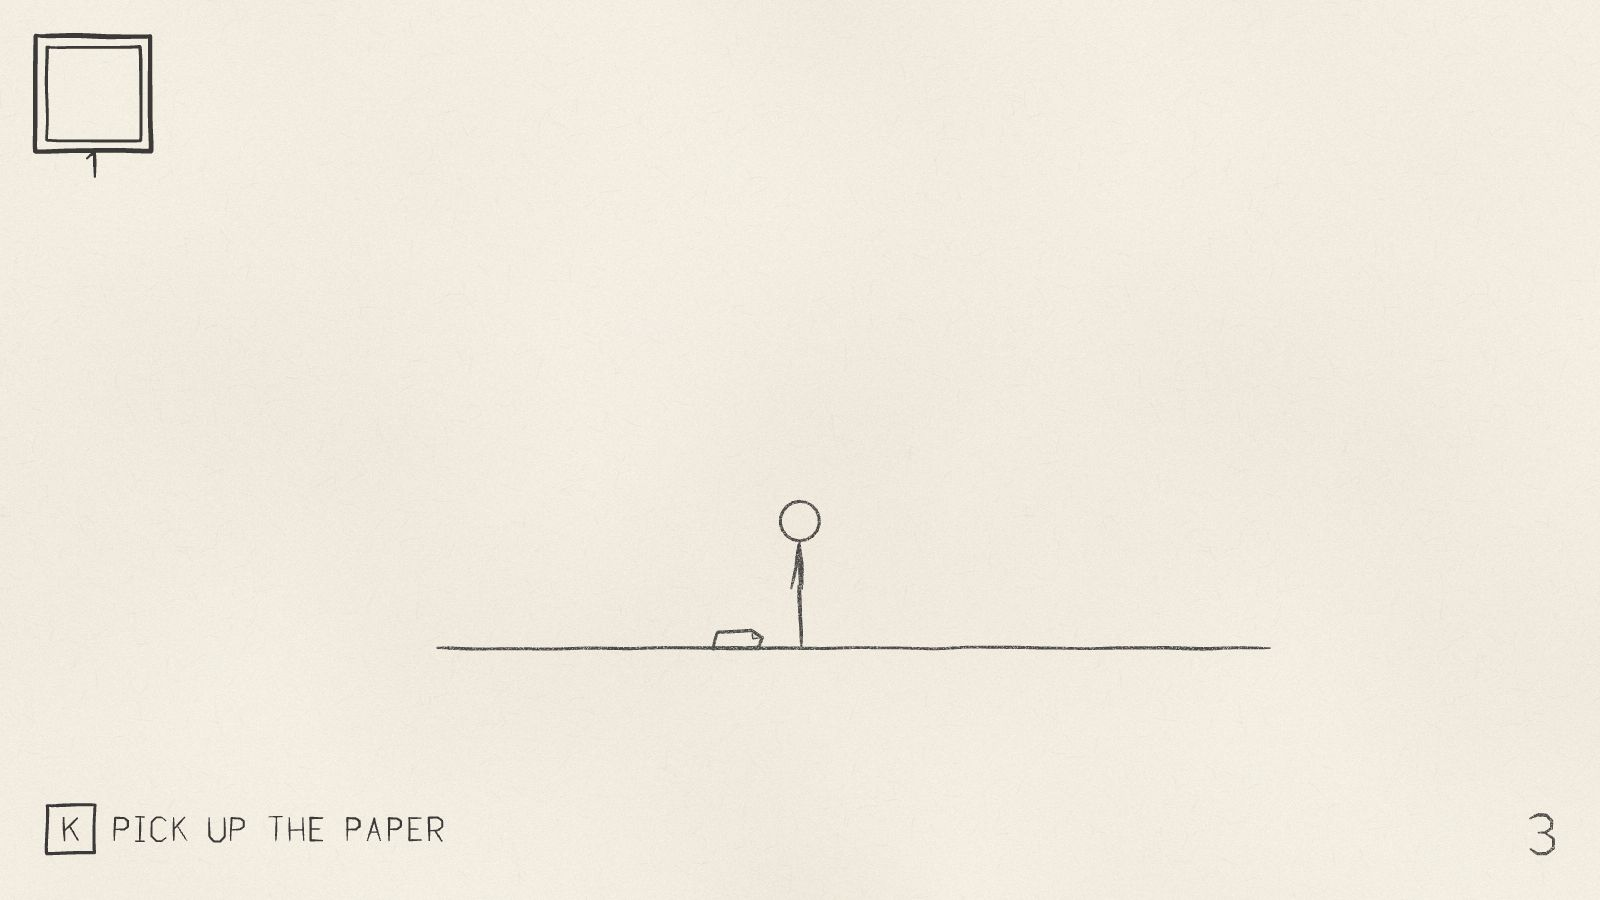
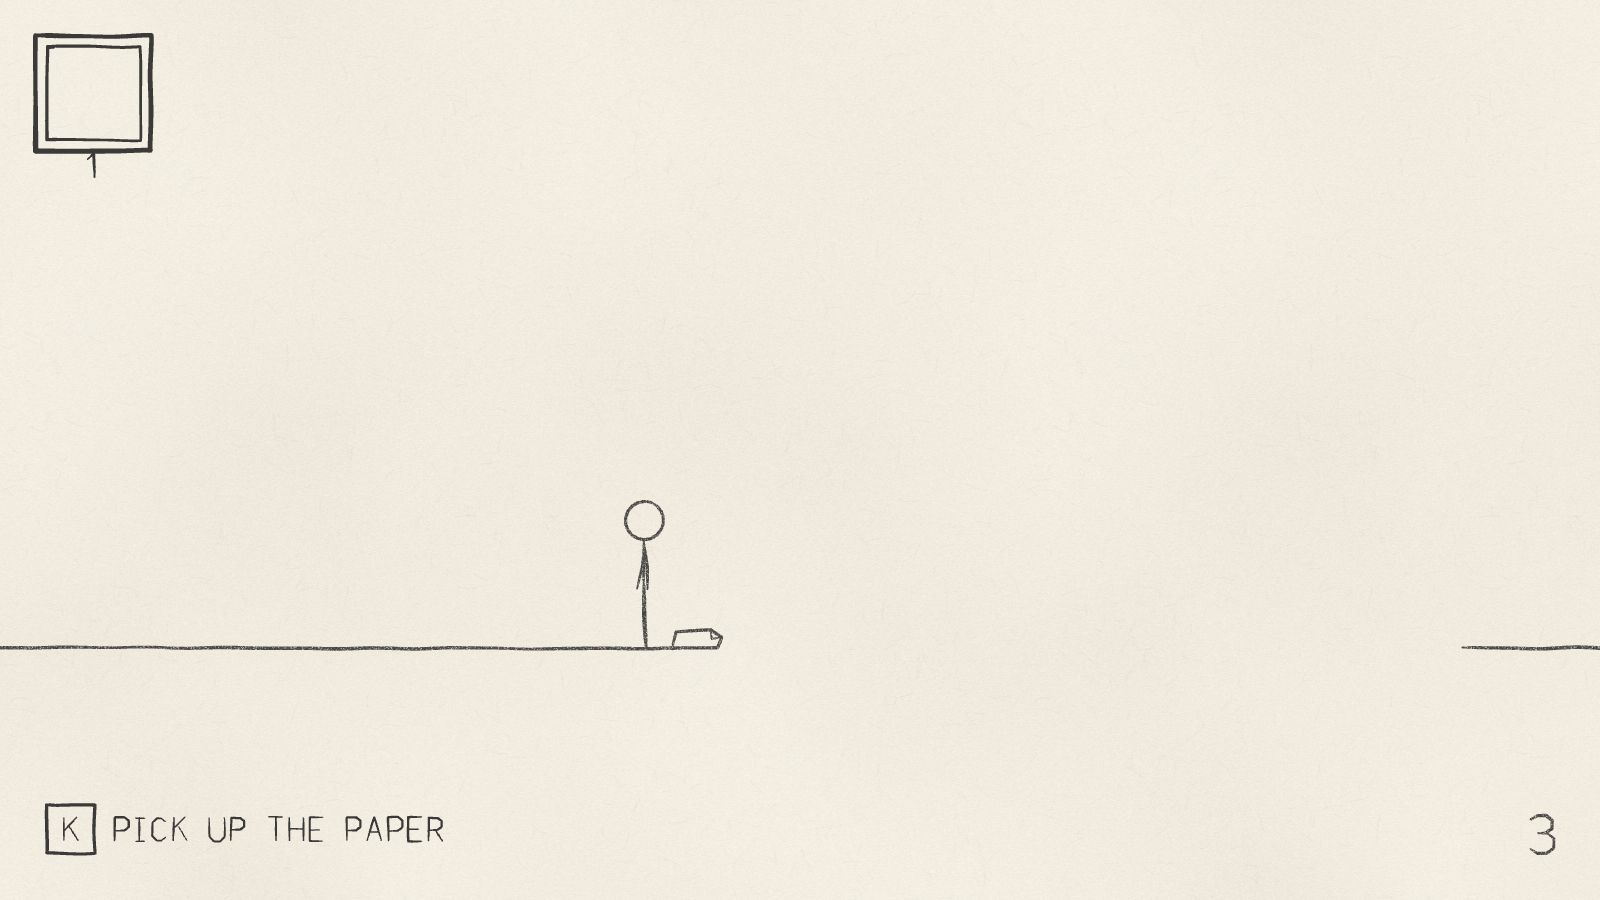
The sheet of paper falls where he stands, not where the letter lay
He sees it come down and has it at his feet. In the air it waits for him to
land, so it never comes down over a gap.

diff --git a/packages/sim/src/features/letter/letter.test.ts b/packages/sim/src/features/letter/letter.test.ts
@@ -149,7 +149,7 @@ describe('a level that starts again', () => {
 });
 
 describe('a new sheet of paper', () => {
-  it('falls from the sky to where the letter lay however the airplane is lost by him who lives, and is picked up into his hand', () => {
+  it('falls from the sky to where he stands however the airplane is lost by him who lives, and is picked up into his hand', () => {
     for (const [, lose] of WAYS_TO_LOSE_THE_AIRPLANE_AND_LIVE) {
       const sim = holdingTheAirplane();
       lose(sim);
@@ -161,10 +161,13 @@ describe('a new sheet of paper', () => {
       // Nothing at first, then a sheet high above the place, coming down, and at last lying there. It is the paper, and no letter.
       for (let tick = 0; tick < TICK_RATE && !fallenItemOf(sim); tick += 1) sim.step();
       const heights: number[] = [];
+      // He lost it at the edge, far from where the letter lay: the sheet comes to him.
+      const stoodAt = stickManOf(sim).feet;
+      expect(stoodAt.x).toBeGreaterThan(LETTER_AT.x + 3);
       for (let tick = 0; tick < 20 * TICK_RATE && (heights.length === 0 || fallenItemOf(sim)!.height !== 0); tick += 1) {
         const fallen = fallenItemOf(sim)!;
         heights.push(fallen.height);
-        expect(fallen).toMatchObject({ at: LETTER_AT, itemDefId: PAPER_ITEM_ID });
+        expect(fallen).toMatchObject({ at: stoodAt, itemDefId: PAPER_ITEM_ID });
         expect(letterOf(sim)).toBeUndefined();
         sim.step();
       }
@@ -172,8 +175,7 @@ describe('a new sheet of paper', () => {
       expect(heights).toEqual([...heights].sort((one, other) => other - one));
       expect(fallenItemOf(sim)!.height).toBe(0);
 
-      // One press picks it up: nothing is read, and it is in his hand, where the next press folds it.
-      walkTo(sim, LETTER_AT.x);
+      // It lies at his feet. One press picks it up: nothing is read, and it is in his hand, where the next press folds it.
       expect(interactionOf(sim)).toBe('pickUp');
       sim.step([INTERACT]);
       expect(fallenItemOf(sim)).toBeUndefined();
@@ -225,17 +227,52 @@ describe('a new sheet of paper', () => {
     expect(hasAirplane(atTheFlag)).toBe(false);
   });
 
-  it('cannot be picked up while it is still coming down', () => {
+  it('cannot be picked up while it is still coming down, nor from out of reach once it lies there', () => {
     const sim = holdingTheAirplane();
     WAYS_TO_LOSE_THE_AIRPLANE_AND_LIVE[0]![1](sim);
     for (let tick = 0; tick < 20 * TICK_RATE && !fallenItemOf(sim); tick += 1) sim.step();
-    walkTo(sim, LETTER_AT.x);
     for (let tick = 0; tick < 20 * TICK_RATE && fallenItemOf(sim)!.height > 0; tick += 1) {
       expect(interactionOf(sim)).toBeNull();
       sim.step([INTERACT]);
       expect(itemSlotsOf(sim)[0]?.itemDefId).toBeNull();
     }
     expect(interactionOf(sim)).toBe('pickUp');
+    // It stays where it fell when he walks away from it, and is out of reach from there.
+    const fellAt = fallenItemOf(sim)!.at;
+    walkTo(sim, fellAt.x - LETTER.reach - 0.3);
+    expect(fallenItemOf(sim)).toMatchObject({ at: fellAt, height: 0 });
+    expect(interactionOf(sim)).toBeNull();
+    walkTo(sim, fellAt.x - LETTER.reach + 0.2);
+    expect(interactionOf(sim)).toBe('pickUp');
+  });
+
+  it('waits for him to land: one he lost in the air gets its sheet where he comes down, never over a gap', () => {
+    const sim = holdingTheAirplane();
+    for (const command of [USE_ITEM, INTERACT]) sim.step([command]);
+    walkTo(sim, EDGE - 1);
+    sim.step([{ type: 'player/jump' }]);
+    for (let tick = 0; tick < 3; tick += 1) sim.step();
+    // In the air he puts nothing down: he lands, and then sets it down past the edge to lose it.
+    for (let tick = 0; tick < TICK_RATE; tick += 1) sim.step();
+    walkTo(sim, EDGE - 0.2);
+    sim.step([INTERACT]);
+    sim.step([{ type: 'player/jump' }]);
+    let sawItStartWhileHeWasInTheAir = false;
+    let ticksInTheAirWhileItWasDue = 0;
+    for (let tick = 0; tick < 20 * TICK_RATE && !(fallenItemOf(sim)?.height === 0); tick += 1) {
+      const wasThere = fallenItemOf(sim) !== undefined;
+      sim.step(tick % 30 === 0 ? [{ type: 'player/jump' }] : []);
+      const inTheAir = stickManOf(sim).action === 'jumping';
+      // The tick it appears on, he is on the floor.
+      if (!wasThere && fallenItemOf(sim) && inTheAir) sawItStartWhileHeWasInTheAir = true;
+      if (!fallenItemOf(sim) && inTheAir && tick > LETTER.fallsAfter * TICK_RATE + 2) ticksInTheAirWhileItWasDue += 1;
+    }
+    // It was due while he was in a jump, and did wait.
+    expect(ticksInTheAirWhileItWasDue).toBeGreaterThan(0);
+    expect(sawItStartWhileHeWasInTheAir).toBe(false);
+    const fellAt = fallenItemOf(sim)!.at;
+    expect(fellAt.y).toBe(0);
+    expect(level3.floor.some((segment) => segment.from.x <= fellAt.x && fellAt.x <= segment.to.x)).toBe(true);
   });
 
   it('does not fall while the airplane is anywhere: in his slot, on the floor or over his head', () => {

diff --git a/packages/sim/src/features/letter/index.ts b/packages/sim/src/features/letter/index.ts
@@ -19,8 +19,8 @@ import { fallenItemSlice, letterSlice, lettersReadSlice } from './state';
  * that starts again for him who has read its letter and has nothing left of
  * what it was for gives him what its recipe makes at once. And whenever he
  * loses everything it was for without dying, the item itself falls from the
- * sky to where the letter lay, and interacting next to it picks it up. So he
- * can never be left without a way on.
+ * sky to where he stands, and interacting next to it picks it up. So he can
+ * never be left without a way on.
  */
 export const letterFeature: Feature = {
   name: 'letter',
@@ -43,7 +43,7 @@ export const letterFeature: Feature = {
     const placed = letterPlacedIn(sim.levelDef);
     const def = placed && letterDef(placed.defId);
     if (!placed || !def) return;
-    if (sim.stateOf(letterSlice).beingRead && !isWithinReach(sim, placed)) putAway(sim);
+    if (sim.stateOf(letterSlice).beingRead && !isWithinReach(sim, placed.at)) putAway(sim);
     const fallen = sim.stateOf(fallenItemSlice);
     if (fallen.inLevel) {
       fallen.height = Math.max(0, fallen.height - LETTER.fallSpeed * sim.dt);
@@ -56,9 +56,13 @@ export const letterFeature: Feature = {
       fallen.ticksUntilItFalls = Math.round(LETTER.fallsAfter / sim.dt);
     } else if (fallen.ticksUntilItFalls > 0) {
       fallen.ticksUntilItFalls -= 1;
-    } else {
+    } else if (sim.stateOf(playerSlice).onFloor) {
+      // It comes down where he stands, so he sees it and has it at his feet. In the air he has no place for it yet: it waits for him to land.
+      const { x, y } = sim.stateOf(playerSlice);
       fallen.ticksUntilItFalls = null;
       fallen.inLevel = true;
+      fallen.x = x;
+      fallen.y = y;
       fallen.height = LETTER.fallsFromHeight;
     }
   },
@@ -85,7 +89,7 @@ export function letterInteraction(sim: Sim) {
   const placed = letterPlacedIn(sim.levelDef);
   const def = placed && letterDef(placed.defId);
   const letter = sim.stateOf(letterSlice);
-  if (!placed || !def || !letter.inLevel || letter.beingRead || !isWithinReach(sim, placed)) return undefined;
+  if (!placed || !def || !letter.inLevel || letter.beingRead || !isWithinReach(sim, placed.at)) return undefined;
   return {
     means: 'read' as const,
     perform: () => {
@@ -105,7 +109,7 @@ export function fallenItemInteraction(sim: Sim) {
   const placed = letterPlacedIn(sim.levelDef);
   const def = placed && letterDef(placed.defId);
   const fallen = sim.stateOf(fallenItemSlice);
-  if (!placed || !def || !fallen.inLevel || fallen.height > 0 || !isWithinReach(sim, placed)) return undefined;
+  if (!def || !fallen.inLevel || fallen.height > 0 || !isWithinReach(sim, fallen)) return undefined;
   return {
     means: 'pickUp' as const,
     perform: () => {
@@ -126,10 +130,10 @@ function putAway(sim: Sim): void {
   letter.inLevel = false;
 }
 
-/** True while he stands on the floor within reach of where the letter lies, and where the item falls. */
-function isWithinReach(sim: Sim, placed: Placement): boolean {
+/** True while he stands on the floor within reach of something that lies at `at`: the letter, or the item that fell. */
+function isWithinReach(sim: Sim, at: { readonly x: number }): boolean {
   const player = sim.stateOf(playerSlice);
-  return player.onFloor && Math.abs(player.x - placed.at.x) <= LETTER.reach;
+  return player.onFloor && Math.abs(player.x - at.x) <= LETTER.reach;
 }
 
 /**

diff --git a/packages/sim/src/features/letter/state.ts b/packages/sim/src/features/letter/state.ts
@@ -15,12 +15,15 @@ export const lettersReadSlice = defineSlice<number[]>('lettersRead', () => [], {
 
 /** The item a letter gave, given again from the sky to him who has lost it and everything he made of it. */
 export interface FallenItemState {
-  /** True while it is there: on its way down, or lying where the letter lay. */
+  /** True while it is there: on its way down, or lying on the floor. */
   inLevel: boolean;
+  /** Where it lies, or will lie once it has come down, in metres: where he stood when it started to fall. Only read while it is there. */
+  x: number;
+  y: number;
   /** How far above where it will lie it is, in metres. 0 once it lies on the floor. */
   height: number;
   /** Ticks left before one starts to fall, or null when none is on its way. */
   ticksUntilItFalls: number | null;
 }
 
-export const fallenItemSlice = defineSlice<FallenItemState>('fallenItem', () => ({ inLevel: false, height: 0, ticksUntilItFalls: null }));
+export const fallenItemSlice = defineSlice<FallenItemState>('fallenItem', () => ({ inLevel: false, x: 0, y: 0, height: 0, ticksUntilItFalls: null }));

diff --git a/packages/sim/src/features/letter/view.ts b/packages/sim/src/features/letter/view.ts
@@ -36,12 +36,12 @@ export interface FallenItemView {
   readonly itemDefId: number;
 }
 
-/** The item on its way down or lying where the level's letter lay, or undefined when there is none. */
+/** The item on its way down or lying on the floor, or undefined when there is none. */
 export function fallenItemOf(handle: SimHandle): FallenItemView | undefined {
   if (!(handle instanceof Sim)) throw new TypeError('not a sim made by createSim or restoreSim');
   const placed = letterPlacedIn(handle.levelDef);
   const def = placed && letterDef(placed.defId);
   const fallen = handle.stateOf(fallenItemSlice);
   if (!placed || !def || !fallen.inLevel) return undefined;
-  return { at: placed.at, height: fallen.height, itemDefId: def.gives };
+  return { at: { x: fallen.x, y: fallen.y }, height: fallen.height, itemDefId: def.gives };
 }

diff --git a/packages/sim/src/features/letter/defs.ts b/packages/sim/src/features/letter/defs.ts
@@ -12,7 +12,7 @@ export interface LetterDef extends Def {
   readonly text: string;
   /** The def id of the recipe that reading it teaches. */
   readonly teachesRecipe: number;
-  /** The def id of the item that reading it gives him when he has neither that item nor what the recipe makes of it. It is also what falls from the sky for him who has read it and lost both; a level that starts again for him gives what the recipe makes instead. */
+  /** The def id of the item that reading it gives him when he has neither that item nor what the recipe makes of it. It is also what falls from the sky, where he stands, for him who has read it and lost both; a level that starts again for him gives what the recipe makes instead. */
   readonly gives: number;
 }
 

diff --git a/AGENTS.md b/AGENTS.md
@@ -148,7 +148,7 @@ Example: an `airplane` feature where the stick man places a paper airplane and f
 - Other features read and change what he holds through `features/inventory/held.ts` and `give.ts`, never through the inventory's slice. The airplane is an item of the inventory's block (201) while it is in a slot, and the `airplane` feature's while it is in the world; that feature sets `carrying` in the player's state, which is how the player's jump and the stick man's arms know.
 - A flag he has reached goes up its stick while he cheers under it, and the next level starts `LEVEL_END.pauseBeforeNextLevel` after he reached it (`features/flag/defs.ts`). The sim starts it in one tick; the page that is turned between the two is the view's (below).
 - The flag of the last level ends the game: no level follows it, `flagOf(sim).endsTheGame` and `gameOf(sim).over` say so, and once it is up the HUD writes the end across the sheet, a stroke at a time and never wider than the view (`client/src/hud/theEnd.ts`). `GAME_END.playAgainAfter` (`features/game/defs.ts`) after he reached it playing again is offered (`gameOf(sim).playingAgainOffered`): he stops cheering and walks and jumps again, the ends of the floor line he is on stop him so that nothing takes the end back, and `'game/playAgain'` (Enter, `client/src/input/gameKeys.ts`) starts the first level with nothing kept (the `game` feature, `sim.startOver()`). J and K have no use after any flag.
-- Trying again costs no chores, and he can never be left without a way on (the `letter` feature). A letter he has read and put away is gone: what it taught he knows for good, and what he can lose is only the paper and what he made of it. An airplane left in the world is lost when he dies, like everything else that is not in a slot, but a level that starts again for him who has read its letter and has nothing left of what it was for gives him what its recipe makes at once, in his hand: a retry of level 3 is walk, set down, board. And whenever he loses the paper and the airplane without dying, a new sheet of paper falls from the sky to where the letter lay (`fallenItemOf(sim)`), and K next to it picks it up (`'pickUp'`), into his hand.
+- Trying again costs no chores, and he can never be left without a way on (the `letter` feature). A letter he has read and put away is gone: what it taught he knows for good, and what he can lose is only the paper and what he made of it. An airplane left in the world is lost when he dies, like everything else that is not in a slot, but a level that starts again for him who has read its letter and has nothing left of what it was for gives him what its recipe makes at once, in his hand: a retry of level 3 is walk, set down, board. And whenever he loses the paper and the airplane without dying, a new sheet of paper falls from the sky to where he stands (`fallenItemOf(sim)`; in the air, it waits for him to land), and K next to it picks it up (`'pickUp'`), into his hand.
 - The stick man is a controlled body with limbs drawn from code, not a ragdoll. The sim keeps the end of a floor line out of his outline as he drops past it (`STICK_MAN_WIDTH`, `PLAYER.fullWidthAbove`); the view keeps his arms, body and head from being drawn across a line (`keptOffTheFloor` in `client/src/render/stickMan.ts`). Both assume flat floors at one height with gaps wider than he is, which tests on every level check (`content/levels/levels.test.ts`).
 
 **Verifying work**

diff --git a/verifications/17-ux-pass-1/README.md b/verifications/17-ux-pass-1/README.md
@@ -24,7 +24,7 @@ Nothing about the levels is typed into a script: gaps, flags, notes and item ids
 | `01-a-page-turn.mjs` | A | The next level starts about a second after the flag; the finished sheet slides off to the left over most of a second with the next level already played under it; the new sheet has its number and name above him, rubbed out a few seconds later; a page number is in the corner of every sheet | `proof/01-a-page-turn.{txt,json}`, `proof/after/<window>/a-*`, clip at the wide window |
 | `02-b-first-sheet.mjs` | B | The game's name is on level 1; a walk note with its keys is beside him and is rubbed out once he has walked on, not before; a jump note is before level 2's gap, still there after a fall into it and rubbed out once he has jumped it; the notes move with the sheet | `proof/02-b-first-sheet.{txt,json}`, `proof/after/<window>/b-*` |
 | `03-c-camera.mjs` | C | On every frame from level 3's letter to the landing: the view shows twelve metres or more, never jumps, and the HUD stays the size it is; carrying, at the edge and in flight he is to one side with the level ahead of him; from the edge, before boarding, the far side is in view; after the landing the view eases back | `proof/03-c-camera.{txt,json}`, `proof/after/<window>/c-*`, clip at the narrow window |
-| `04-e-retry.mjs` | E | A read letter is gone once put away and what it taught stays; after a lost flight the level starts again with the airplane in his hand and the retry is a walk and two presses; with neither paper nor airplane a sheet of paper falls where the letter lay and one press picks it up | `proof/04-e-retry.{txt,json}`, `proof/after/<window>/e-*` |
+| `04-e-retry.mjs` | E | A read letter is gone once put away and what it taught stays; after a lost flight the level starts again with the airplane in his hand and the retry is a walk and two presses; with neither paper nor airplane a sheet of paper falls where he stands, in view, and one press picks it up | `proof/04-e-retry.{txt,json}`, `proof/after/<window>/e-*` |
 | `05-g-ending.mjs` | G | "THE END" is written a stroke at a time and reaches neither side of the window; a key and "PLAY AGAIN" follow; he stands, walks about and cannot walk off the paper; Enter does nothing before it is offered and then turns the page back to level 1 with nothing kept | `proof/05-g-ending.{txt,json}`, `proof/after/<window>/g-*`, clip at the portrait window |
 
 The same moments are captured before and after under the same file names where there is a before (`proof/before/<window>/` and `proof/after/<window>/`).

diff --git a/docs/decisions/0005-a-level-is-a-sheet.md b/docs/decisions/0005-a-level-is-a-sheet.md
@@ -33,7 +33,7 @@ The first UX review (`docs/reviews/ux-review-1.md`) found that the three levels 
 - `startOver` is new in `core/sim.ts` because `startLevel` is defined to keep what carries. The seed, the rng and the tick count go on: a recorded game that ends and is played again still replays.
 - After the end he is not held in a cheer. When playing again is offered he walks and jumps again, and the ends of the floor line he is on stop him (`keptOverTheLine`): the game is over, so nothing he does may start the level again and take the end back.
 
-**5. What a letter teaches is kept; what he can lose is given back as what it is.** The `letter` feature: a letter he has read is gone once he puts it away. When a level starts again for him who has read its letter and has nothing left of what it was for, `init` gives him what its recipe makes, in his hand. When he loses everything without dying, the item the letter gave falls from the sky to where the letter lay, and `'world/interact'` next to it picks it up (`fallenItemInteraction`, `'pickUp'`).
+**5. What a letter teaches is kept; what he can lose is given back as what it is.** The `letter` feature: a letter he has read is gone once he puts it away. When a level starts again for him who has read its letter and has nothing left of what it was for, `init` gives him what its recipe makes, in his hand. When he loses everything without dying, the item the letter gave falls from the sky to where he stands, so he sees it come and has it at his feet, and `'world/interact'` next to it picks it up (`fallenItemInteraction`, `'pickUp'`).
 
 - Before this, a new letter fell and had to be read again to get the paper. The fold is learned once and cannot be lost, so what falls is the material and not the lesson.
 - Leaving the read letter on the floor, opened, to be read again was built and taken out again for the same reason: it had nothing left to do, and it put a prompt in his way on every retry.
